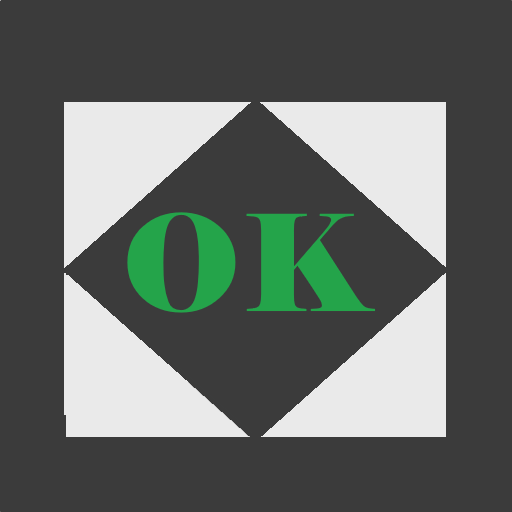
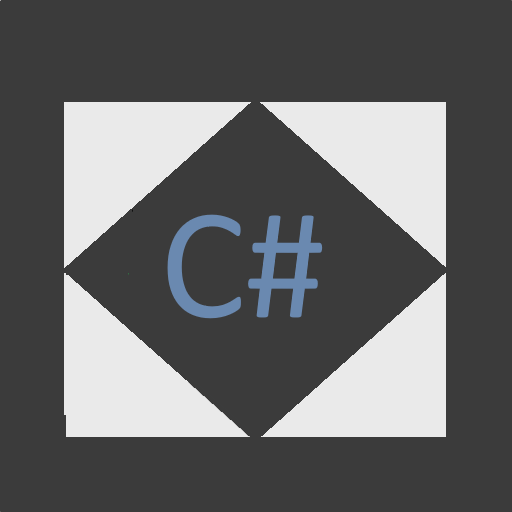
Added TextFieldParser-post

Changed region(s): [[0.25, 0.4062, 0.7188, 0.625]]

diff --git a/_posts/2024-02-11-csvtextfieldparser.md b/_posts/2024-02-11-csvtextfieldparser.md
@@ -1,0 +1,46 @@
+---
+layout: post
+title: Import von csv-Dateien
+subtitle: Die TextFieldParser-Klasse
+cover-img: /assets/img/graybg.png
+thumbnail-img: /assets/img/cshard.jpg
+share-img: /assets/img/start.jpg
+tags: [c#, csv, TextFieldParser ]
+author: Oliver Kocks
+---
+
+Der Import von csv-Dateien ist ein recht typisches Problem. Glücklicherweise bietet c# hier (etwas versteckt) in der TextFieldParser-Klasse die notwendige Funktionalität. Dies hat den Vorteil, dass man sich
+nicht selbst um einige der Randprobleme kümmern muss (unvollständige Zeilen, leere Zeilen, umgeschlüsselte Trennzeichen etc.).
+
+Beispiel:
+
+`
+using Microsoft.VisualBasic.FileIO;
+
+...
+
+try
+{
+	using ( TextReader textReader = new StringReader( csvString ) )
+    using ( TextFieldParser textFieldParser = new( textReader ) )
+    {
+		parser.SetDelimiters( delimiterChar );
+        while ( !textFieldParser.EndOfData )
+        {
+			String[]? csvData = textFieldParser.ReadFields();
+            if ( csvData != null )
+				...
+		}
+	}
+}
+catch ( Exception e ) 
+{
+	...
+}
+`
+         
+Als Ergebnis erhält man ein pro ReadFields-Aufruf ein Array der Spaltenwerte, die man entsprechend verarbeiten kann.
+Von dem "VisualBasic"-Namespace muss man sich nicht abschrecken lassen. Die Klasse ist in einer der Standard-dotnet-Bibliotheken eingebunden, der exotische Namespace wahrscheinlich ein Relikt aus den
+dotnet-Anfangszeiten.		 
+
+
